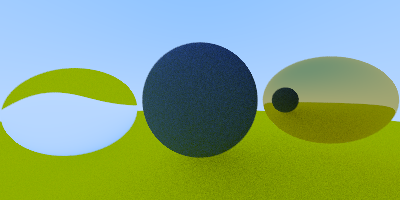
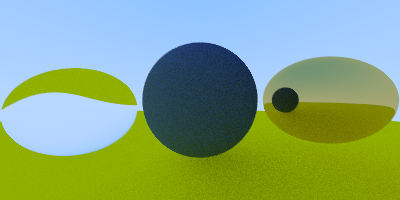
add paralellization with rayon

diff --git a/src/lib.rs b/src/lib.rs
@@ -7,60 +7,31 @@ use glam::Vec3;
 use image::Rgb;
 use rand::Rng;
 
-use materials::Material;
-use parallel::{HEIGHT, RNG, WIDTH};
+use materials::BoxedMaterial;
+use parallel::{ANTIALIASING, DEPTH, HEIGHT, WIDTH};
 use scene::Camera;
 
-const ANTIALIASING: i32 = 50;
+///
+pub fn ray_color(x: f32, y: f32, camera: &Camera, world: &Vec<BoxedSurface>) -> Rgb<u8> {
+    let mut col = Vec3::ZERO;
+    let mut rng = rand::thread_rng();
 
-/// For ray calculate color in the given world - list of objects with coordinates
-pub fn color(ray: &Ray, world: &Vec<Box<dyn Surface>>, depth: i32) -> Vec3 {
-    if let Some(hit) = world.hit(ray, 0.001, f32::MAX) {
-        if let Some((attenuation, scattered)) = hit.material.scatter(ray, &hit) {
-            let col: Vec3 = color(&scattered, world, depth + 1);
-            return attenuation * col;
-        }
-    }
-
-    let norm = ray.direction().unit_vec();
-    let t = 0.5 * norm.y + 1.0;
-    (1.0 - t) * Vec3::ONE + t * Vec3::new(0.5, 0.7, 1.0)
-}
-
-pub fn pixel_color(x: f32, y: f32, camera: &Camera, world: &Vec<dyn Surface>) -> Rgb<u8> {
     for _ in 0..ANTIALIASING {
-        let rand = RNG.get_mut().gen_range(0.0..1.0);
+        let rand = rng.gen_range(0.0..1.0);
 
         // This two are pixel's relative coordinates on the screen
         let (u, v) = (((x + rand) / WIDTH), ((y + rand) / HEIGHT));
         let ray = camera.get_ray(u, v);
-        // let p = ray.point_at(2.0);
-        col += color(&ray, &world, DEPTH);
+        col += ray.color(&world, DEPTH);
     }
 
-    col /= ns as f32;
+    col /= ANTIALIASING as f32;
     col = Vec3::new(col.x.sqrt(), col.y.sqrt(), col.z.sqrt());
     Rgb([
         (col[0] * 255.99) as u8,
         (col[1] * 255.99) as u8,
         (col[2] * 255.99) as u8,
     ])
-}
-
-pub fn set_pixel(x: f32, y: f32, pixel: &mut Rgb<u8>) {
-    let mut col = Vec3::ZERO;
-    let pool = rayon::ThreadPoolBuilder::new().build().unwrap();
-    // let chunks =
-    let mut v1 = RawImageView::new(&mut buf, 0, 0, 10, 10);
-    let mut v2 = RawImageView::new(&mut buf, 10, 0, 10, 10);
-    pool.scope(|s| {
-        s.spawn(|_| {
-            modify(&mut v1);
-        });
-        s.spawn(|_| {
-            modify(&mut v2);
-        });
-    });
 }
 
 pub trait Vec3Ext<T> {
@@ -96,6 +67,20 @@ impl Ray {
     pub fn at(&self, t: f32) -> Vec3 {
         self.a + t * self.b
     }
+
+    /// For ray calculate color in the given world - list of objects with coordinates
+    pub fn color(&self, world: &Vec<BoxedSurface>, depth: i32) -> Vec3 {
+        if let Some(hit) = world.hit(&self, 0.001, f32::MAX) {
+            if let Some((attenuation, scattered)) = hit.material.scatter(self, &hit) {
+                let col: Vec3 = scattered.color(world, depth + 1);
+                return attenuation * col;
+            }
+        }
+
+        let norm = self.direction().unit_vec();
+        let t = 0.5 * norm.y + 1.0;
+        (1.0 - t) * Vec3::ONE + t * Vec3::new(0.5, 0.7, 1.0)
+    }
 }
 
 #[derive(Clone)]
@@ -109,11 +94,11 @@ pub struct Hit<'a> {
     pub p: Vec3,
     /// Normal of the surface
     pub normal: Vec3,
-    pub material: &'a dyn Material,
+    pub material: &'a BoxedMaterial,
 }
 
 impl<'a> Hit<'a> {
-    pub fn new(t: f32, ray: &Ray, material: &'a dyn Material, normal: Vec3) -> Self {
+    pub fn new(t: f32, ray: &Ray, material: &'a BoxedMaterial, normal: Vec3) -> Self {
         let p = ray.at(t);
 
         Self {
@@ -128,3 +113,7 @@ impl<'a> Hit<'a> {
 pub trait Surface {
     fn hit(&self, ray: &Ray, t_min: f32, t_max: f32) -> Option<Hit>;
 }
+
+pub type BoxedSurface = Box<dyn Surface + Sync + Send + 'static>;
+
+// unsafe impl std::marker::Sync for Box<dyn Surface> {}

diff --git a/src/main.rs b/src/main.rs
@@ -3,22 +3,17 @@
 //!
 
 use glam::Vec3;
-use image::{ImageBuffer, Rgb};
-use rand::Rng;
-use rayon::prelude::*;
+use image::{ ImageBuffer, ImageEncoder, Rgb};
 use rt_in_1_weekend::{
-    color,
     materials::{Lambertian, Reflective, Refractive},
-    parallel::{RNG, WIDTH, WORLD},
+    parallel::{self, HEIGHT, WIDTH},
     scene::{Camera, Sphere},
-    utils, Surface,
+    utils, BoxedSurface,
 };
-use std::{cell::Cell, path::Path};
+use std::path::Path;
 
-const DEPTH: i32 = 3;
-
-fn world<'a>() -> Vec<Box<dyn Surface>> {
-    let mut world: Vec<Box<dyn Surface>> = vec![];
+fn world<'a>() -> Vec<BoxedSurface> {
+    let mut world: Vec<BoxedSurface> = vec![];
 
     let diffuse1 = Box::new(Lambertian::new(Vec3::new(0.1, 0.2, 0.5)));
     let diffuse2 = Box::new(Lambertian::new(Vec3::new(0.8, 0.8, 0.0)));
@@ -53,38 +48,12 @@ fn world<'a>() -> Vec<Box<dyn Surface>> {
 
 fn main() {
     let t = utils::Timer::new();
-    // ns is just step count for antialiasing
-    let (w, h, ns) = (WIDTH, HEIGHT, ANTIALIASING);
-    let mut image = Image::new(w as u32, h as u32);
-
-    // let world: Vec<Box<dyn Surface>> = world();
-    WORLD.set(world());
     let camera = Camera::default();
-
-    let mut rng = rand::thread_rng();
-    // for (x, y, pixel) in buf.enumerate_pixels_mut() {
-    //     let mut col = Vec3::ZERO;
-    //     let (x, y) = (x as f32, y as f32);
-
-    //     for _ in 0..ns {
-    //         let rand = rng.gen_range(0.0..1.0);
-
-    //         // This two are pixel's relative coordinates on the screen
-    //         let (u, v) = (((x + rand) / w), ((y + rand) / h));
-    //         let ray = camera.get_ray(u, v);
-    //         // let p = ray.point_at(2.0);
-    //         col += color(&ray, &world, DEPTH);
-    //     }
-
-    //     col /= ns as f32;
-    //     col = Vec3::new(col.x.sqrt(), col.y.sqrt(), col.z.sqrt());
-    //     *pixel = Rgb([
-    //         (col[0] * 255.99) as u8,
-    //         (col[1] * 255.99) as u8,
-    //         (col[2] * 255.99) as u8,
-    //     ]);
-    // }
-
+    let vec = parallel::render(camera, world());
+    let mut buf = ImageBuffer::new(WIDTH as u32, HEIGHT as u32);
+    for ((.., pixel), color) in buf.enumerate_pixels_mut().zip(vec) {
+        *pixel = color
+    }
     utils::save_image(buf, &Path::new("output/scene.png"));
     t.end();
 }

diff --git a/src/utils.rs b/src/utils.rs
@@ -1,4 +1,4 @@
-use image::{self, ImageBuffer, ImageFormat, Rgb};
+use image::{self, ImageBuffer, ImageFormat, Pixel, Rgb};
 use std::{path::Path, time::Instant};
 use termion::{color, style};
 
@@ -29,33 +29,34 @@ pub fn print_italic(s: &str) {
     print!("{}{s}{}", style::Italic, style::Reset);
 }
 
-pub struct Image(ImageBuffer<Rgb<u8>, Vec<u8>>);
+pub struct Image<P: Pixel>(ImageBuffer<P, Vec<u8>>);
 
-impl From<ImageBuffer<Rgb<u8>, Vec<u8>>> for Image {
+impl<P: Pixel> Image<P> {
+    pub fn new(buf: ImageBuffer<P, Vec<u8>>) -> Self {
+        Self(buf)
+    }
+}
+
+impl From<ImageBuffer<Rgb<u8>, Vec<u8>>> for Image<Rgb<u8>> {
     fn from(buf: ImageBuffer<Rgb<u8>, Vec<u8>>) -> Self {
         Self(buf)
     }
 }
 
-impl From<Image> for ImageBuffer<Rgb<u8>, Vec<u8>> {
-    fn from(image: Image) -> ImageBuffer<Rgb<u8>, Vec<u8>> {
+impl From<Image<Rgb<u8>>> for ImageBuffer<Rgb<u8>, Vec<u8>> {
+    fn from(image: Image<Rgb<u8>>) -> ImageBuffer<Rgb<u8>, Vec<u8>> {
         image.0
     }
 }
 
-impl Image {
+impl<P: Pixel> Image<P> {
     /// Get reference to the inner image buffer
-    pub fn buf(&self) -> &ImageBuffer<Rgb<u8>, Vec<u8>> {
+    pub fn buf(&self) -> &ImageBuffer<P, Vec<u8>> {
         &self.0
     }
 
     /// Get inner image buffer as mutable
-    pub fn buf_mut(&mut self) -> &mut ImageBuffer<Rgb<u8>, Vec<u8>> {
+    pub fn buf_mut(&mut self) -> &mut ImageBuffer<P, Vec<u8>> {
         &mut self.0
-    }
-
-    pub fn assign_pixel(&mut self, x: i32, y: i32, value: Rgb<u8>) {
-        let pixel = self.buf_mut().get_pixel_mut(x as u32, y as u32);
-        *pixel = value;
     }
 }

diff --git a/src/parallel.rs b/src/parallel.rs
@@ -1,12 +1,33 @@
-use crate::{scene::Scene, Surface};
-use lazy_static::lazy_static;
-use rand::{rngs::ThreadRng, thread_rng};
+use crate::{ray_color, scene::Camera, BoxedSurface};
+use image::Rgb;
 use rayon::prelude::*;
-use std::cell::Cell;
+use std::time::Instant;
 
 pub const DIM: f32 = 200.0;
-
-pub const WORLD: Cell<Vec<Box<dyn Surface>>> = Cell::new(vec![]);
-pub const RNG: Cell<ThreadRng> = Cell::new(thread_rng());
 pub const HEIGHT: f32 = DIM;
 pub const WIDTH: f32 = DIM * 2.0;
+pub const ANTIALIASING: i32 = 50;
+pub const DEPTH: i32 = 3;
+
+/// The heavy lifting starts here.
+/// This function allocates with size exactly if images pixels
+/// to process them in chunks, here - lines(because chunk_size is
+/// one line of pixels). This does improve render time in my laptop 4x,
+/// but not solving stack overflow situation.
+pub fn render(camera: Camera, world: Vec<BoxedSurface>) -> Vec<Rgb<u8>> {
+    let (w, h) = (WIDTH as usize, HEIGHT as usize);
+
+    let mut pixels = vec![Rgb([255, 255, 255]); w * h];
+    let chunks: Vec<(usize, &mut [Rgb<u8>])> = pixels.chunks_mut(w).enumerate().collect();
+    let start = Instant::now();
+    chunks.into_par_iter().for_each(|(y, ch)| {
+        let camera = camera.clone();
+        let world = &world;
+        ch.into_iter().enumerate().for_each(move |(x, p)| {
+            let camera = camera.clone();
+            *p = ray_color(x as f32, y as f32, &camera, &world);
+        });
+    });
+    println!("Rendering time:{} s", start.elapsed().as_secs());
+    pixels
+}

diff --git a/src/scene.rs b/src/scene.rs
@@ -1,21 +1,21 @@
-use crate::{materials::Material, Hit, Ray, Surface};
+use crate::{materials::BoxedMaterial, BoxedSurface, Hit, Ray, Surface};
 use glam::Vec3;
 
 pub struct Scene {
     pub width: u32,
     pub height: u32,
-    pub world: Vec<Box<dyn Surface>>,
+    pub world: Vec<BoxedSurface>,
     pub camera: Camera,
 }
 
 pub struct Sphere {
     center: Vec3,
     radius: f32,
-    material: Box<dyn Material>,
+    material: BoxedMaterial,
 }
 
 impl Sphere {
-    pub fn new(center: Vec3, radius: f32, material: Box<dyn Material>) -> Self {
+    pub fn new(center: Vec3, radius: f32, material: BoxedMaterial) -> Self {
         Sphere {
             center,
             radius,
@@ -47,11 +47,11 @@ impl Surface for Sphere {
         let p = ray.at(root);
         let normal = (p - self.center) / self.radius;
 
-        Some(Hit::new(root, ray, &*self.material, normal))
+        Some(Hit::new(root, ray, &self.material, normal))
     }
 }
 
-impl Surface for Vec<Box<dyn Surface>> {
+impl Surface for Vec<BoxedSurface> {
     fn hit(&self, ray: &Ray, t_min: f32, t_max: f32) -> Option<Hit> {
         let mut temp_hit = None;
         let mut closest_so_far = t_max;
@@ -66,6 +66,7 @@ impl Surface for Vec<Box<dyn Surface>> {
     }
 }
 
+#[derive(Clone)]
 pub struct Camera {
     pub lower_left: Vec3,
     pub horiz: Vec3,

diff --git a/src/materials.rs b/src/materials.rs
@@ -26,6 +26,8 @@ pub trait Material {
     fn scatter(&self, ray: &Ray, hit: &Hit) -> Option<(Vec3, Ray)>;
 }
 
+pub type BoxedMaterial = Box<dyn Material + Send + Sync + 'static>;
+
 /// Represent simple materials that neither reflect nor refract
 /// light rays
 #[derive(Clone)]
